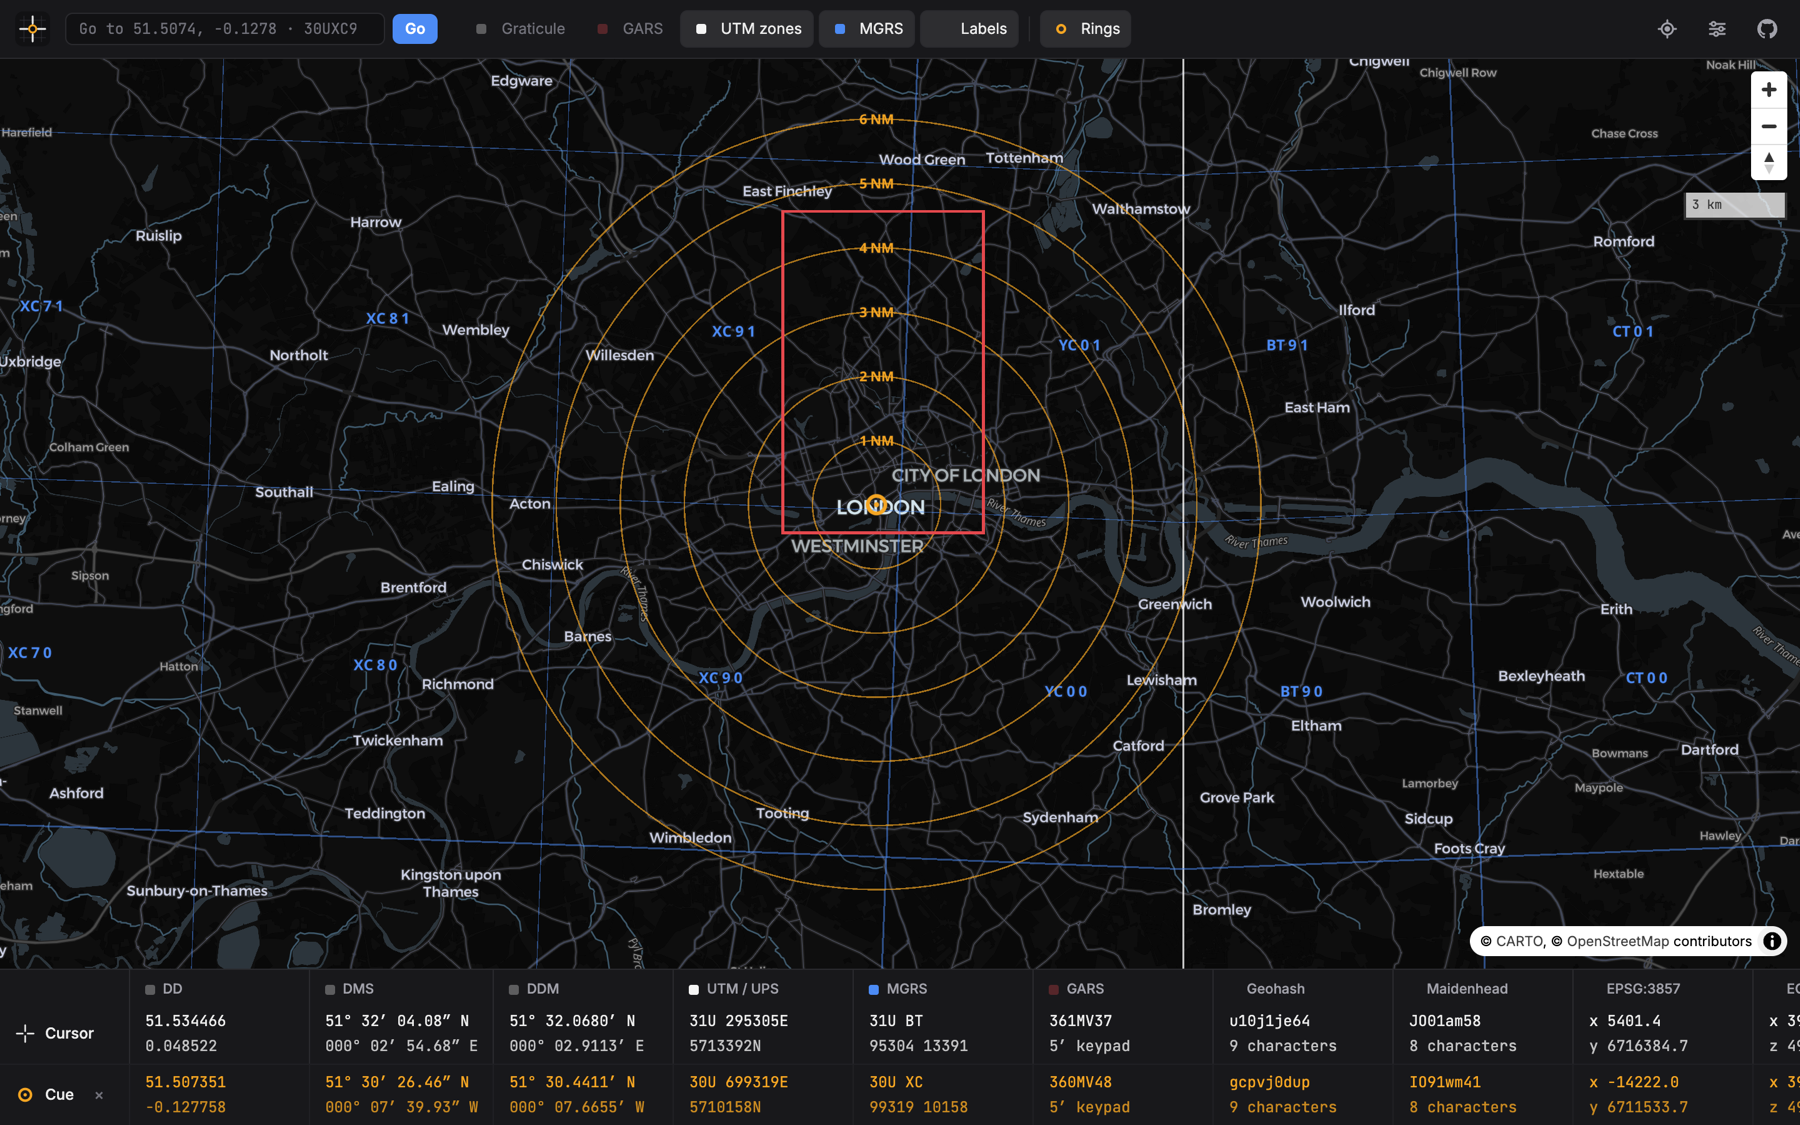
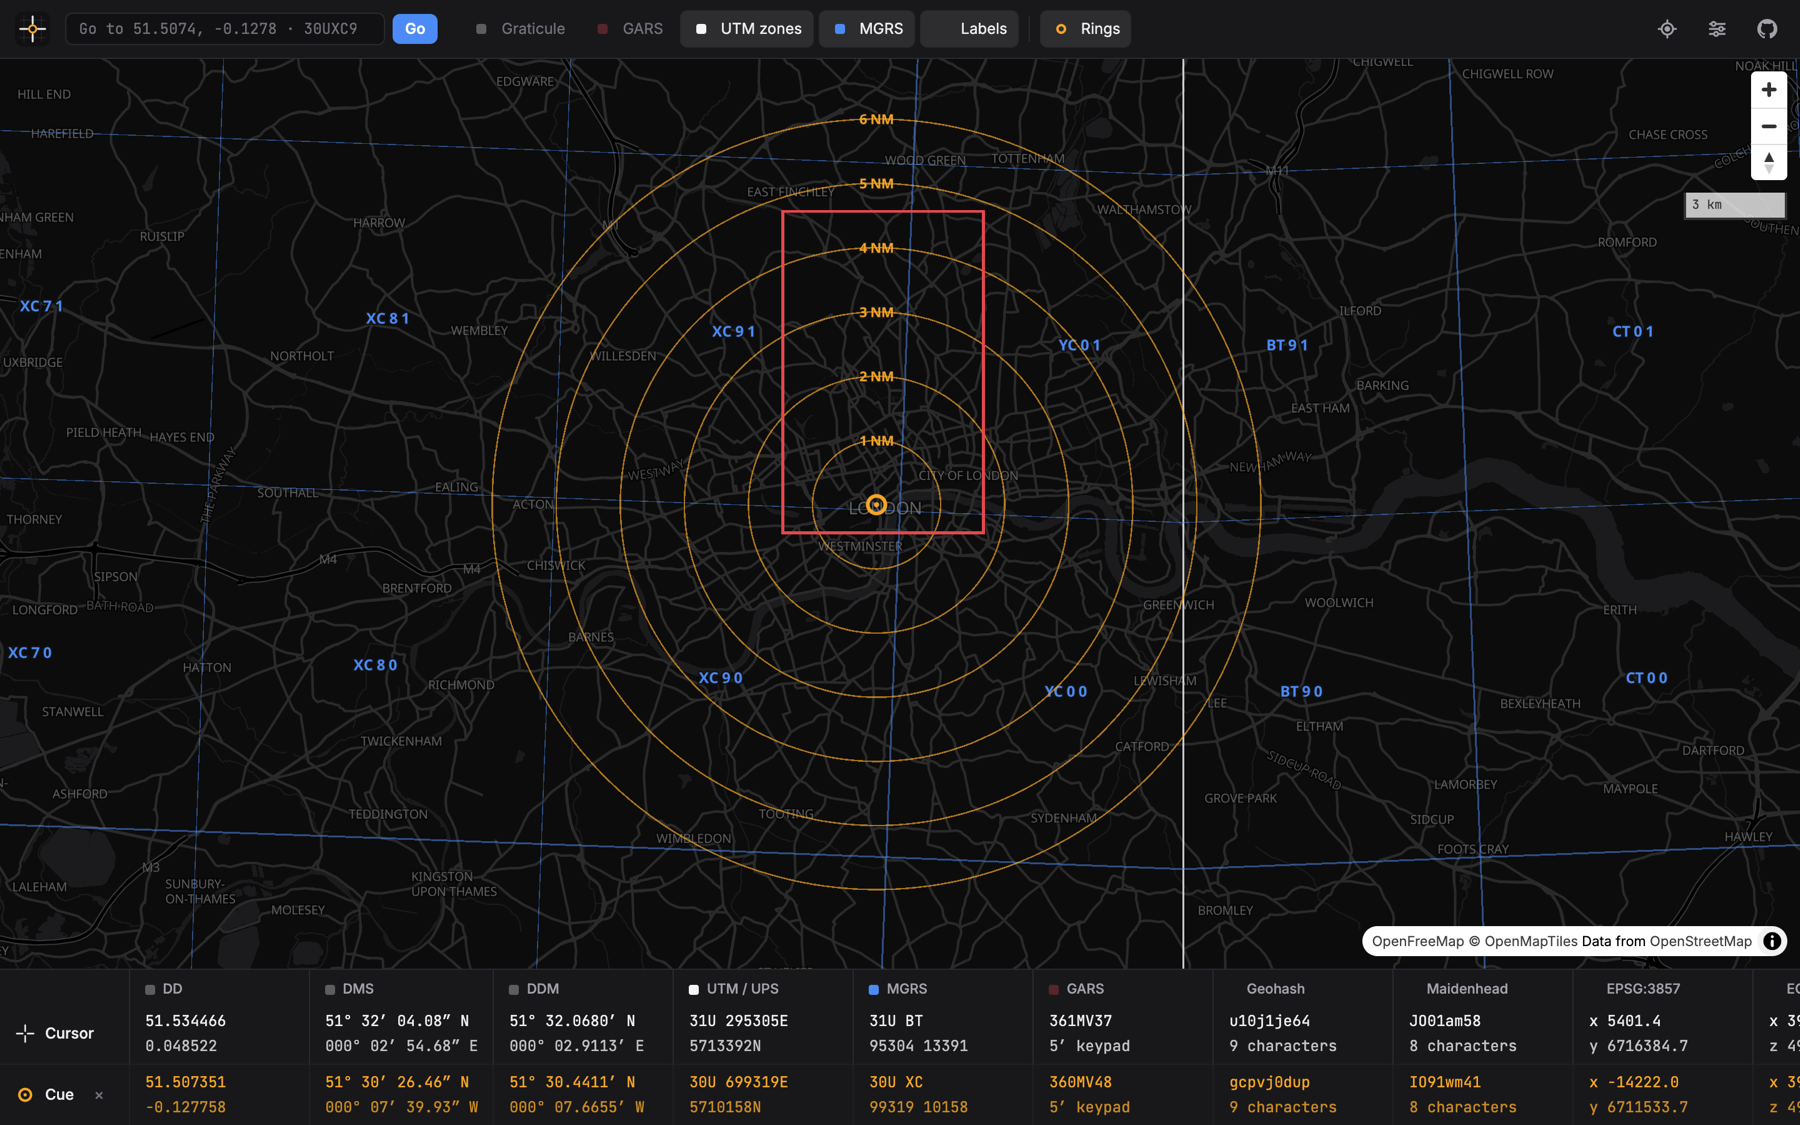
feat: use OpenFreeMap for the dark and light base maps
- Load the dark and positron styles and the label glyphs from
  OpenFreeMap instead of Carto; grid labels use Noto Sans Bold.
- Cache OpenFreeMap styles and the /planet TileJSON with
  stale-while-revalidate, and tiles, glyphs and sprites cache-first.
  The URL matchers name the host inline, because Workbox copies them
  into the service worker as source text.
- Credit OpenFreeMap in the README, regenerate the screenshots, and
  correct the map lifecycle and location notes in AGENTS.md.

diff --git a/vite.config.ts b/vite.config.ts
@@ -63,21 +63,26 @@ export default defineConfig({
         // NOTE: the coverage report and badges are published beside the app; let them load as pages.
         navigateFallbackDenylist: [/\/coverage\//, /\/badges\//],
         cleanupOutdatedCaches: true,
+        // NOTE: Workbox copies each urlPattern into the service worker as source text, so a
+        // matcher must not refer to anything outside itself, such as a shared constant.
         runtimeCaching: [
           {
             urlPattern: ({ url }) => url.pathname.endsWith('.woff2'),
             handler: 'CacheFirst',
             options: cacheAsViewed('fonts', 60, 365),
           },
+          // NOTE: OpenFreeMap's styles and its `/planet` TileJSON name the current tile build, so
+          // they revalidate; the tile, glyph and sprite URLs under a build never change.
           {
             urlPattern: ({ url }) =>
-              url.hostname.endsWith('cartocdn.com') &&
-              url.pathname.endsWith('.json'),
+              url.hostname === 'tiles.openfreemap.org' &&
+              (url.pathname.startsWith('/styles/') ||
+                url.pathname === '/planet'),
             handler: 'StaleWhileRevalidate',
             options: cacheAsViewed('map-styles', 50, 30),
           },
           {
-            urlPattern: ({ url }) => url.hostname.endsWith('cartocdn.com'),
+            urlPattern: ({ url }) => url.hostname === 'tiles.openfreemap.org',
             handler: 'CacheFirst',
             options: cacheAsViewed('map-tiles', 4000, 30),
           },

diff --git a/src/map/basemaps.ts b/src/map/basemaps.ts
@@ -3,9 +3,10 @@ import type { StyleSpecification } from 'maplibre-gl'
 import type { MapStyle } from '../domain'
 import type { MapTone } from '../systems/types'
 
-/** Carto serves the glyphs for every base map, so grid labels can use one font on all of them. */
-export const GLYPHS_URL =
-  'https://tiles.basemaps.cartocdn.com/fonts/{fontstack}/{range}.pbf'
+const OPENFREEMAP_URL = 'https://tiles.openfreemap.org'
+
+/** OpenFreeMap serves the glyphs for every base map, so grid labels can use one font on all of them. */
+export const GLYPHS_URL = `${OPENFREEMAP_URL}/fonts/{fontstack}/{range}.pbf`
 
 const satelliteStyle: StyleSpecification = {
   version: 8,
@@ -35,7 +36,7 @@ export const basemapStyles: Record<
   MapStyle.Basemap,
   string | StyleSpecification
 > = {
-  Dark: 'https://basemaps.cartocdn.com/gl/dark-matter-gl-style/style.json',
-  Light: 'https://basemaps.cartocdn.com/gl/positron-gl-style/style.json',
+  Dark: `${OPENFREEMAP_URL}/styles/dark`,
+  Light: `${OPENFREEMAP_URL}/styles/positron`,
   Satellite: satelliteStyle,
 }

diff --git a/src/map/labels.ts b/src/map/labels.ts
@@ -25,7 +25,7 @@ const addLabelLayer = (map: MapInstance): void => {
     source: LABEL_SOURCE_ID,
     layout: {
       'text-field': ['get', 'text'],
-      'text-font': ['Open Sans Bold'],
+      'text-font': ['Noto Sans Bold'],
       'text-size': ['get', 'size'],
       'text-allow-overlap': false,
       'text-padding': 1,

diff --git a/README.md b/README.md
@@ -95,20 +95,20 @@ All positions use the [WGS84](https://en.wikipedia.org/wiki/World_Geodetic_Syste
 
 ## Built with
 
-|                                                                                    | Tool                                                                                                                                             | Use                                                                                             |
-| ---------------------------------------------------------------------------------- | ------------------------------------------------------------------------------------------------------------------------------------------------ | ----------------------------------------------------------------------------------------------- |
-| <img src="https://foldkit.dev/favicon.svg" width="16" alt="" />                    | [Foldkit](https://foldkit.dev)                                                                                                                   | The Elm Architecture in TypeScript: one Model, an `update` function, Commands and Subscriptions |
-| <img src="https://effect.website/favicon.png" width="16" alt="" />                 | [Effect](https://effect.website)                                                                                                                 | Schemas for the Model and Messages, and the effects in Commands                                 |
-| <img src="https://maplibre.org/favicon.ico" width="16" alt="" />                   | [MapLibre GL JS](https://maplibre.org)                                                                                                           | The map, the globe projection and the grid labels                                               |
-| <img src="https://deck.gl/favicon.png" width="16" alt="" />                        | [deck.gl](https://deck.gl)                                                                                                                       | Grid lines, cue outlines and range rings                                                        |
-| <img src="https://vite.dev/logo.svg" width="16" alt="" />                          | [Vite](https://vite.dev)                                                                                                                         | The development server and the build                                                            |
-| <img src="https://bun.sh/logo.svg" width="16" alt="" />                            | [Bun](https://bun.sh)                                                                                                                            | Packages and scripts                                                                            |
-| <img src="https://vitest.dev/logo.svg" width="16" alt="" />                        | [Vitest](https://vitest.dev)                                                                                                                     | Unit, story and scene tests, and coverage                                                       |
-| <img src="https://tailwindcss.com/favicons/favicon-32x32.png" width="16" alt="" /> | [Tailwind CSS](https://tailwindcss.com)                                                                                                          | Styles                                                                                          |
-| <img src="https://vite-pwa-org.netlify.app/favicon.svg" width="16" alt="" />       | [Vite PWA](https://vite-pwa-org.netlify.app)                                                                                                     | The web app manifest and the Workbox service worker                                             |
-| <img src="https://www.jetify.com/favicon.ico" width="16" alt="" />                 | [Devbox](https://www.jetify.com/devbox) and [just](https://just.systems)                                                                         | A repeatable toolchain and the project commands                                                 |
-|                                                                                    | [Inter](https://rsms.me/inter/) and [JetBrains Mono](https://www.jetbrains.com/lp/mono/)                                                         | Interface text and coordinate values                                                            |
-|                                                                                    | [CARTO basemaps](https://carto.com/basemaps) and [Esri World Imagery](https://www.arcgis.com/home/item.html?id=10df2279f9684e4a9f6a7f08febac2a9) | The dark, light and satellite base maps                                                         |
+|                                                                                    | Tool                                                                                                                                       | Use                                                                                             |
+| ---------------------------------------------------------------------------------- | ------------------------------------------------------------------------------------------------------------------------------------------ | ----------------------------------------------------------------------------------------------- |
+| <img src="https://foldkit.dev/favicon.svg" width="16" alt="" />                    | [Foldkit](https://foldkit.dev)                                                                                                             | The Elm Architecture in TypeScript: one Model, an `update` function, Commands and Subscriptions |
+| <img src="https://effect.website/favicon.png" width="16" alt="" />                 | [Effect](https://effect.website)                                                                                                           | Schemas for the Model and Messages, and the effects in Commands                                 |
+| <img src="https://maplibre.org/favicon.ico" width="16" alt="" />                   | [MapLibre GL JS](https://maplibre.org)                                                                                                     | The map, the globe projection and the grid labels                                               |
+| <img src="https://deck.gl/favicon.png" width="16" alt="" />                        | [deck.gl](https://deck.gl)                                                                                                                 | Grid lines, cue outlines and range rings                                                        |
+| <img src="https://vite.dev/logo.svg" width="16" alt="" />                          | [Vite](https://vite.dev)                                                                                                                   | The development server and the build                                                            |
+| <img src="https://bun.sh/logo.svg" width="16" alt="" />                            | [Bun](https://bun.sh)                                                                                                                      | Packages and scripts                                                                            |
+| <img src="https://vitest.dev/logo.svg" width="16" alt="" />                        | [Vitest](https://vitest.dev)                                                                                                               | Unit, story and scene tests, and coverage                                                       |
+| <img src="https://tailwindcss.com/favicons/favicon-32x32.png" width="16" alt="" /> | [Tailwind CSS](https://tailwindcss.com)                                                                                                    | Styles                                                                                          |
+| <img src="https://vite-pwa-org.netlify.app/favicon.svg" width="16" alt="" />       | [Vite PWA](https://vite-pwa-org.netlify.app)                                                                                               | The web app manifest and the Workbox service worker                                             |
+| <img src="https://www.jetify.com/favicon.ico" width="16" alt="" />                 | [Devbox](https://www.jetify.com/devbox) and [just](https://just.systems)                                                                   | A repeatable toolchain and the project commands                                                 |
+|                                                                                    | [Inter](https://rsms.me/inter/) and [JetBrains Mono](https://www.jetbrains.com/lp/mono/)                                                   | Interface text and coordinate values                                                            |
+|                                                                                    | [OpenFreeMap](https://openfreemap.org) and [Esri World Imagery](https://www.arcgis.com/home/item.html?id=10df2279f9684e4a9f6a7f08febac2a9) | The dark, light and satellite base maps                                                         |
 
 The tests use [proj4js](https://github.com/proj4js/proj4js) and the [mgrs](https://github.com/proj4js/mgrs) package as reference implementations. The application does not include them.
 

diff --git a/AGENTS.md b/AGENTS.md
@@ -38,16 +38,16 @@ Nothing outside `src/systems/` names a system. `registry.test.ts` checks every f
 - The Model keeps the `Camera` (centre, zoom, bearing, pitch). The map reports each move (`MovedMap`), and the element jumps only when the camera property changes and differs from the map, so a render during a pan never pulls the map back, but time travel moves it. During replay, Foldkit mutes declarative handlers, so a historical map cannot dispatch to the live Model.
 - Animated moves (search and "Find my location") are a `CameraRequest` in the Model with an increasing id. The element flies or fits once for each new id. There is no map Command and no registry of live map instances.
 - The cue (`?p=`) and the camera (`#view=zoom/lat/lon/bearing/pitch`) live in the URL. Flags read them at start; the `ReplaceUrl` Command writes them after each change (`src/url.ts`). MapLibre's own `hash` option is off, so the Model is the only source of truth.
-- `MapState` is `Loading`, `Ready` or `Failed`. The element reports `map-failed` when MapLibre cannot start or when an error comes before the first load, and `map-removed` when it leaves the page.
+- `MapState` is `Loading`, `Ready` or `Failed`. The element reports `map-ready` on MapLibre's `load` event, and `map-failed` when MapLibre cannot start or when an error comes before the first load. It sends nothing on removal, because Snabbdom removes its event listeners first.
 - Grid labels are a MapLibre symbol layer (`src/map/labels.ts`), not a deck.gl `TextLayer`: deck.gl text does not draw on the MapLibre globe. The element changes base map with `setStyle(..., { diff: false })` so `style.load` fires and the label layer is re-added.
 - Grid toggles are stored by grid id. A grid that saved settings do not list uses its registry default. Bump `STORAGE_KEY` in `src/settings/model.ts` when the saved `Values` shape changes.
 - The readout is a table: rows are positions (`src/readout/rows.ts`: Cursor, Cue) and columns are the registered formatters (`src/readout/columns.ts`). Add a row by adding a `ReadoutRow`; a formatter's `maybeGridId` links its column to a grid's colour swatch.
 - Layout and pointer come from media-query Subscriptions (`src/subscription.ts`), seeded by Flags. `Compact` (under 768px) replaces the table with a sheet over the map (`sheetView` in `src/readout/view.ts`): one card per system in a sideways-scrolling strip, open while any row has a position, `inert` when closed; `Touch` hides the cursor row, since touch screens cannot hover. The toolbar responds with CSS breakpoints alone.
 - Grids carry two colour sets (`colors.onDark`, `colors.onLight`). `basemapTone` in `src/map/basemaps.ts` picks one per base map, and label halos follow the same tone.
-- PWA: `vite-plugin-pwa` (Workbox `generateSW`) in `vite.config.ts`. The app shell and Latin fonts are precached; Carto styles, tiles, glyphs and Esri imagery are runtime-cached as viewed. The service worker runs only in builds (`just preview`), not in `just dev`. Icons are rendered by `scripts/icons.sh` from `public/logo.svg` and committed.
+- PWA: `vite-plugin-pwa` (Workbox `generateSW`) in `vite.config.ts`. The app shell and Latin fonts are precached; OpenFreeMap styles, tiles, glyphs and sprites, and Esri imagery are runtime-cached as viewed. The service worker runs only in builds (`just preview`), not in `just dev`. Icons are rendered by `scripts/icons.sh` from `public/logo.svg` and committed.
 - Coverage: `just check` runs Vitest with V8 coverage and fails under the thresholds in `vitest.config.ts`. CI then runs `just publish-coverage` (`scripts/coverage-report.ts`) to put the badge and HTML report into `dist/badges/` and `dist/coverage/`. Raise the thresholds when coverage rises; do not lower them to pass.
 - `docs/demo.gif` comes from `just demo` (`scripts/demo.mjs`: Chrome screencast frames, a drawn cursor, and `gifenc` with one palette and changed-pixel frames). Screenshots in `docs/screenshots/` come from `just screenshots` (headless Chrome through `puppeteer-core`, against `just preview`). Regenerate them after visible UI changes.
-- Search and "Find my location" are the GoTo Submodel. Both report in one status line (`GoTo.Status`) and, on success, emit the `ChoseLocation` OutMessage; the root sets the cue, requests a camera move and writes the URL with `Update.combine`. A location result counts only while the status is `Locating`.
+- Search and "Find my location" are the GoTo Submodel. Both report in one status line (`GoTo.Status`) and, on success, emit the `ChoseLocation` OutMessage; the root sets the cue, requests a camera move and writes the URL with `Update.combine`. Each location request has an id in `Status.Locating`; a result counts only when its id matches the request in flight.
 - Copy feedback is the Copy Submodel: each readout cell is an `h.submodel` keyed by `${row}-${system}`, and it shows "Copied" or "Copy failed" with a polite live region.
 - Effect diagnostics: `@effect/tsgo` (the Effect language service for TypeScript 7) runs inside `tsc`, so `just typecheck` and `just check` report Effect problems such as an Effect that is never run, an unhandled error or service, or an outdated Effect 4 API. Warnings fail the type check as well as errors. `bun install` runs `effect-tsgo patch --typescript` from the `prepare` script; if Effect diagnostics are missing, run `bunx effect-tsgo patch --typescript`. Command errors use tagged errors (`Data.TaggedError`) and become Messages with `Effect.catch(() => Effect.succeed(...))`, as Foldkit documents, so `catchToOrElseSucceed` is off in `tsconfig.json`. Turn off one diagnostic for one line with `// @effect-diagnostics-next-line <rule>:off` and a `// NOTE:` that says why.
 - Lint and format: `just lint` runs oxlint with `@foldkit/oxlint-plugin` (`.oxlintrc.json`); `just format` runs oxfmt. `just check` runs both, so CI fails on a Foldkit rule. The configs ignore `repos/`.
